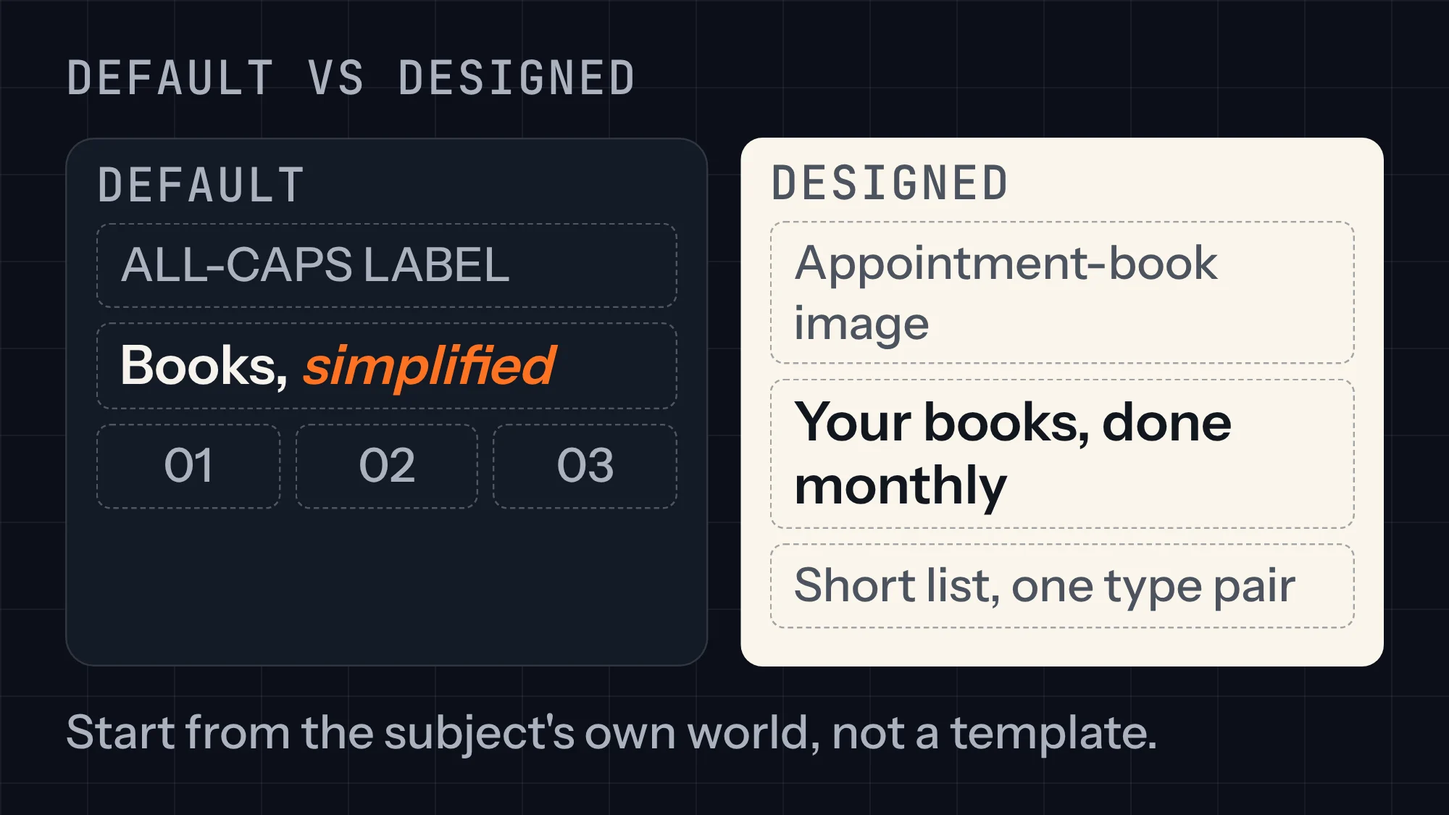
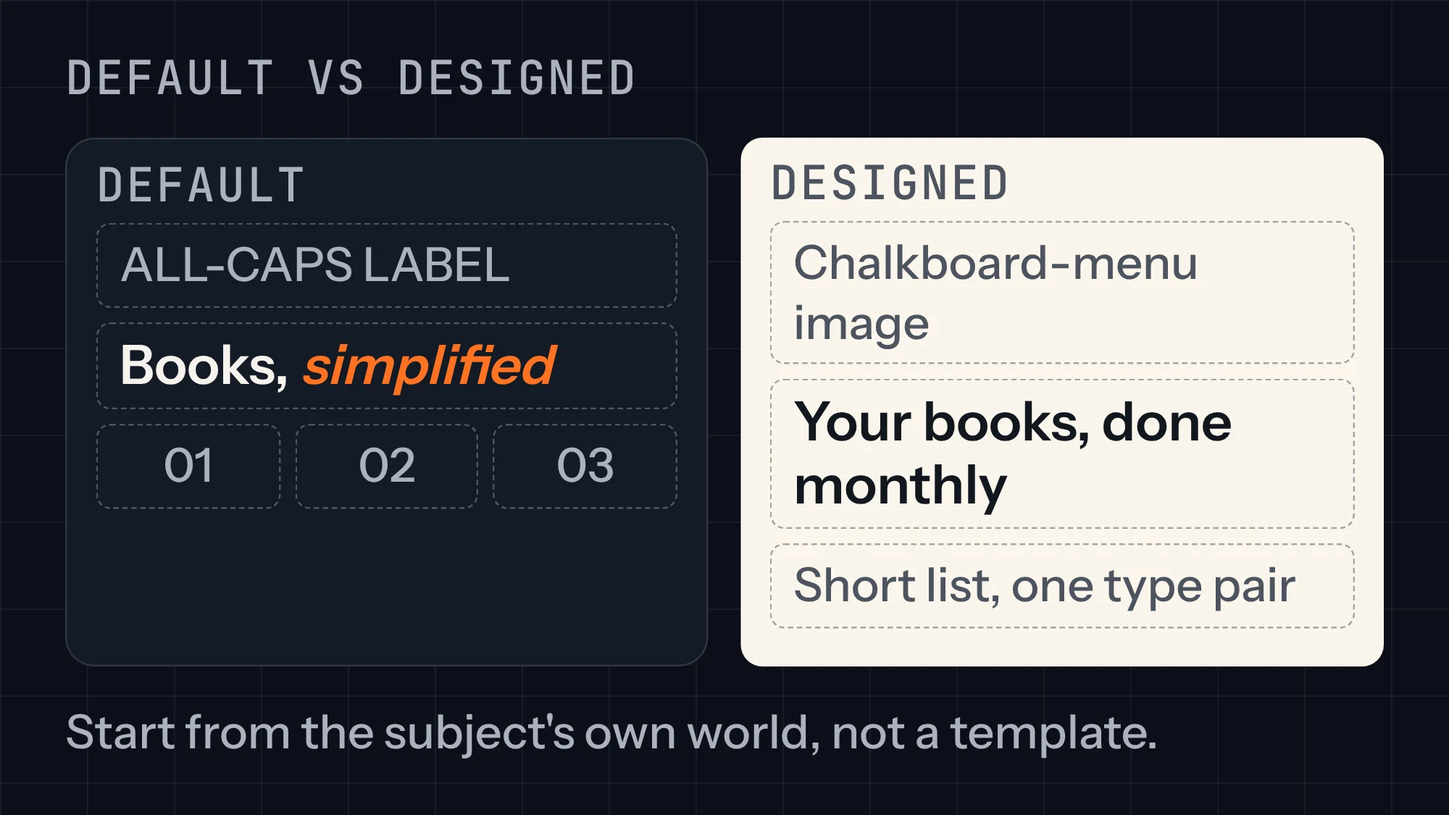
Use Rolling Ledger as the example business in the Agent Skills course
Matches the site-wide switch from Groomer Books to Rolling Ledger, a
bookkeeping service for independent food truck owners. Brand colours
are unchanged.

Claude-Session: https://claude.ai/code/session_01HDSuGCJi3YDQiyRwVjX2jB

Changed region(s): [[0.527, 0.28, 0.837, 0.3422]]

diff --git a/website/content/learn/figures/agent-skills/lesson-02-fig-1.html b/website/content/learn/figures/agent-skills/lesson-02-fig-1.html
@@ -25,7 +25,7 @@
     </div>
     <div class="paper card col" style="border:0">
       <span class="sys" style="color:oklch(44% 0.022 262)">Designed</span>
-      <div class="wire"><span class="small">Appointment-book image</span></div>
+      <div class="wire"><span class="small">Chalkboard-menu image</span></div>
       <div class="wire"><span class="label">Your books, done monthly</span></div>
       <div class="wire"><span class="small">Short list, one type pair</span></div>
     </div>

diff --git a/website/content/learn/courses/agent-skills/exercises/exercise-02-starter-skills-worth-installing.md b/website/content/learn/courses/agent-skills/exercises/exercise-02-starter-skills-worth-installing.md
@@ -11,7 +11,7 @@ template: v2
 You'll take one small idea for your site through all three starter skills: `/grill-me` turns it into a clear plan, `frontend-design` turns the plan into one screen with a point of view, and `skill-creator` turns what worked into a skill you'll reuse. At the end you'll have a plan, a screen in its own branch, and your first home-made skill.
 :::
 
-**Time:** 50 minutes · **You'll need:** Claude Code installed and signed in, your site's folder (or the Groomer Books site), one small idea for the site · **Builds on:** Lesson 2
+**Time:** 50 minutes · **You'll need:** Claude Code installed and signed in, your site's folder (or the Rolling Ledger site), one small idea for the site · **Builds on:** Lesson 2
 
 :::video
 id: sk-ex2-setup
@@ -20,7 +20,7 @@ status: paused
 src: /learn/video/agent-skills/sk-ex2-setup.mp4
 captions: /learn/video/agent-skills/sk-ex2-setup.vtt
 poster: /learn/video/agent-skills/sk-ex2-setup.jpg
-transcript: In this exercise one idea goes through three skills. Install Matt Pocock's skills, frontend design and skill creator. Run grill me on a single sentence, like a page where groomers can book a call, and answer until the agent has no questions left. Then build one screen with frontend design on its own branch. Last, ask skill creator to turn the session into a skill. You'll finish with a plan, a screen and a skill.
+transcript: In this exercise one idea goes through three skills. Install Matt Pocock's skills, frontend design and skill creator. Run grill me on a single sentence, like a page where truck owners can book a call, and answer until the agent has no questions left. Then build one screen with frontend design on its own branch. Last, ask skill creator to turn the session into a skill. You'll finish with a plan, a screen and a skill.
 :::
 
 ## Warm-up
@@ -37,7 +37,7 @@ Why: "Yes" accepts the recommended answer. When you disagree, say what you want 
 
 1. **Install the three skills.** In a terminal, `claude plugin install mattpocock-skills@claude-plugins-official`. Then in a Claude Code session, `/plugin install frontend-design@claude-plugins-official` and `/plugin install skill-creator@claude-plugins-official`. Run `/setup-matt-pocock-skills` once in your project.
 
-2. **Write one sentence.** Pick one small change, for example: "A page where a groomer can book a free 15-minute call."
+2. **Write one sentence.** Pick one small change, for example: "A page where a food truck owner can book a free 15-minute call."
 
 3. **Get grilled.** Send `/grill-me` followed by your sentence. Answer every round. Reply "yes" when you agree with a recommended answer. Stop when the agent says nothing is left open.
 
@@ -50,7 +50,7 @@ Why: "Yes" accepts the recommended answer. When you disagree, say what you want 
 ```text
 Create a branch called booking-page. Using the frontend-design skill and our
 brand kit, build the page in notes/booking-page-plan.md. Ground the design in
-a groomer's world, not a generic software page. Show me the plan first.
+a food truck owner's world, not a generic software page. Show me the plan first.
 ```
 
 Approve the plan, let it build, and open the page in your browser.
@@ -72,7 +72,7 @@ Approve the plan, let it build, and open the page in your browser.
 :::example
 title: See an example result
 
-For Groomer Books, `/grill-me` took three rounds and asked 11 questions, 6 the founder hadn't considered, such as what happens after a groomer books (an email with a calendar invite) and whether evenings are offered (yes, groomers work days). The first build had an all-caps "BOOK NOW" label and fade-ins on every section; the agent removed both. The finished page opens with a simple appointment-book layout in the brand's ink and coral. The `new-page` skill's first step is "Run /grill-me until the goal and done-when are settled."
+For Rolling Ledger, `/grill-me` took three rounds and asked 11 questions, 6 the founder hadn't considered, such as what happens after an owner books (an email with a calendar invite) and whether evening calls are offered (yes, trucks serve lunch). The first build had an all-caps "BOOK NOW" label and fade-ins on every section; the agent removed both. The finished page opens with a simple chalkboard-menu layout in the brand's ink and coral. The `new-page` skill's first step is "Run /grill-me until the goal and done-when are settled."
 
 :::video
 id: sk-ex2-reveal
@@ -81,7 +81,7 @@ status: paused
 src: /learn/video/agent-skills/sk-ex2-reveal.mp4
 captions: /learn/video/agent-skills/sk-ex2-reveal.vtt
 poster: /learn/video/agent-skills/sk-ex2-reveal.jpg
-transcript: Here's a finished result for Groomer Books. Grill me asked 11 questions over three rounds, and six of them were things the founder hadn't thought about, like evening slots. The first build had two generic tells, an all-caps label and fade-ins everywhere, and both came out. The page now looks like an appointment book, not a software template. And the new page skill starts every future page the same way: with a grilling session.
+transcript: Here's a finished result for Rolling Ledger. Grill me asked 11 questions over three rounds, and six of them were things the founder hadn't thought about, like evening slots. The first build had two generic tells, an all-caps label and fade-ins everywhere, and both came out. The page now looks like a chalkboard menu, not a software template. And the new page skill starts every future page the same way: with a grilling session.
 :::
 :::
 

diff --git a/website/content/learn/courses/agent-skills/lessons/lesson-02-starter-skills-worth-installing.md b/website/content/learn/courses/agent-skills/lessons/lesson-02-starter-skills-worth-installing.md
@@ -14,7 +14,7 @@ status: paused
 src: /learn/video/agent-skills/sk-l2-overview.mp4
 captions: /learn/video/agent-skills/sk-l2-overview.vtt
 poster: /learn/video/agent-skills/sk-l2-overview.jpg
-transcript: Most bad agent work starts before the agent writes a single line. You asked for something vague, it guessed, and you only found out when you saw the result. Three free skills fix the most common failures. Grill me makes the agent interview you until the idea is clear. Frontend design stops the agent from building the same generic page everyone else gets. And skill creator lets the agent write and test new skills for you. In this lesson you'll install all three and use each one on the Groomer Books site.
+transcript: Most bad agent work starts before the agent writes a single line. You asked for something vague, it guessed, and you only found out when you saw the result. Three free skills fix the most common failures. Grill me makes the agent interview you until the idea is clear. Frontend design stops the agent from building the same generic page everyone else gets. And skill creator lets the agent write and test new skills for you. In this lesson you'll install all three and use each one on the Rolling Ledger site.
 :::
 
 :::key-concept
@@ -71,7 +71,7 @@ status: paused
 src: /learn/video/agent-skills/sk-l2-grill-me.mp4
 captions: /learn/video/agent-skills/sk-l2-grill-me.vtt
 poster: /learn/video/agent-skills/sk-l2-grill-me.jpg
-transcript: Here's grill me on a real idea: an online booking page for Groomer Books. The founder types grill me and one sentence. The agent comes back with four numbered questions, each with a recommended answer. Who books, the groomer or their client? Recommended: the groomer. Does it take payment? Recommended: no, not yet. The founder says yes to three and changes one. The next round goes deeper. After three rounds, the idea that started as one sentence is a clear one-page plan.
+transcript: Here's grill me on a real idea: an online booking page for Rolling Ledger. The founder types grill me and one sentence. The agent comes back with four numbered questions, each with a recommended answer. Who books, the truck owner or a customer? Recommended: the truck owner. Does it take payment? Recommended: no, not yet. The founder says yes to three and changes one. The next round goes deeper. After three rounds, the idea that started as one sentence is a clear one-page plan.
 :::
 
 ## 2. `frontend-design`: stop the generic AI look
@@ -83,7 +83,7 @@ Ask any agent for a landing page with no direction and you'll get a familiar res
 - All-caps labels above every section, and numbered markers (01, 02, 03) on things that aren't steps
 - A fade-and-slide-up entrance on every section
 
-What it asks for instead: start from the subject's own world (for Groomer Books, that's grooming tables, appointment books and receipts, not a generic SaaS hero), use one or two typefaces chosen on purpose, keep lines under 80 characters, and use motion once, deliberately.
+What it asks for instead: start from the subject's own world (for Rolling Ledger, that's service windows, chalkboard menus and fuel receipts, not a generic SaaS hero), use one or two typefaces chosen on purpose, keep lines under 80 characters, and use motion once, deliberately.
 
 Install it in Claude Code:
 
@@ -97,7 +97,7 @@ It's also in the anthropics/skills repository, so `npx skills add anthropics/ski
 id: fig-1
 type: comparison
 title: Generic page vs designed page
-shows: Two simple wireframes side by side. Left, labeled "default": a centred hero with one highlighted word, an all-caps eyebrow label, three numbered feature cards. Right, labeled "with frontend-design": a hero built around an appointment book image and a plain headline, one typeface pair noted, features as a short list. The right one is on the paper card.
+shows: Two simple wireframes side by side. Left, labeled "default": a centred hero with one highlighted word, an all-caps eyebrow label, three numbered feature cards. Right, labeled "with frontend-design": a hero built around a chalkboard-menu image and a plain headline, one typeface pair noted, features as a short list. The right one is on the paper card.
 data: none
 image: /learn/figures/agent-skills/lesson-02-fig-1.webp
 alt: A default AI page has a highlighted headline word, an all-caps label and numbered cards. The frontend-design version opens with the subject's own world, a plain headline and a deliberate type pair.

diff --git a/website/content/learn/courses/agent-skills/lessons/lesson-03-your-four-house-skills.md b/website/content/learn/courses/agent-skills/lessons/lesson-03-your-four-house-skills.md
@@ -58,19 +58,19 @@ Every skill starts with a short header. The `description` is the most important 
 
 ```markdown
 ---
-name: groomer-books-voice
-description: Use when writing anything a customer will read for Groomer Books: site copy, emails, posts, proposals.
+name: rolling-ledger-voice
+description: Use when writing anything a customer will read for Rolling Ledger: site copy, emails, posts, proposals.
 ---
 
-# Groomer Books voice
+# Rolling Ledger voice
 
-- Plain words a busy groomer understands on a phone. Say "your books", not "reconciliation".
+- Plain words a busy truck owner understands on a phone between services. Say "your books", not "reconciliation".
 - Sentences under 20 words. One idea per paragraph.
 - Warm and direct. No hype words: "revolutionary", "seamless", "unlock".
 - Prices in dollars with the period: "$149 a month".
 
 ## Example
-Before: "Unlock seamless financial clarity for your grooming business."
+Before: "Unlock seamless financial clarity for your food truck business."
 After: "We keep your books every month, so tax time takes an hour, not a weekend."
 ```
 
@@ -80,7 +80,7 @@ If you made a brand skill in Brand in a Day Lesson 3, you already have a start: 
 
 ### Design system
 
-Open your Brand in a Day kit. The design system skill lists the exact values: colour codes, font names and sizes, the spacing step, the button style, and a short "never" list ("no gradients", "no stock photos of laptops"). Tell the skill to use these values over anything the `frontend-design` skill suggests. That matters for Groomer Books: its kit is Ink #1F2A37, Coral #E8664A and Cream #FFF8F0, close to the cream-and-terracotta look `frontend-design` calls a cliché. It's a deliberate brand choice, so the design system skill says so ("cream and coral are our brand colours; keep them"), and the agent stops second-guessing it. Add one screenshot of a page you like as an example, if you have one.
+Open your Brand in a Day kit. The design system skill lists the exact values: colour codes, font names and sizes, the spacing step, the button style, and a short "never" list ("no gradients", "no stock photos of laptops"). Tell the skill to use these values over anything the `frontend-design` skill suggests. That matters for Rolling Ledger: its kit is Ink #1F2A37, Coral #E8664A and Cream #FFF8F0, close to the cream-and-terracotta look `frontend-design` calls a cliché. It's a deliberate brand choice, so the design system skill says so ("cream and coral are our brand colours; keep them"), and the agent stops second-guessing it. Add one screenshot of a page you like as an example, if you have one.
 
 ### Specs
 
@@ -93,7 +93,7 @@ status: paused
 src: /learn/video/agent-skills/sk-l3-write-house-skills.mp4
 captions: /learn/video/agent-skills/sk-l3-write-house-skills.vtt
 poster: /learn/video/agent-skills/sk-l3-write-house-skills.jpg
-transcript: Here the Groomer Books founder pastes five past emails into Claude Code and asks skill creator for a voice skill. It drafts one, runs three test rewrites, and shows them side by side. The founder flags one phrase that sounds too formal, and the skill is updated. Next, the brand kit's colours and fonts go into a design system skill. Two skills done in about twenty minutes.
+transcript: Here the Rolling Ledger founder pastes five past emails into Claude Code and asks skill creator for a voice skill. It drafts one, runs three test rewrites, and shows them side by side. The founder flags one phrase that sounds too formal, and the skill is updated. Next, the brand kit's colours and fonts go into a design system skill. Two skills done in about twenty minutes.
 :::
 
 ## Mistakes become skills
@@ -131,10 +131,10 @@ Put your house skills in one private GitHub repo, for example `house-skills`, wi
 ```text
 house-skills/
   skills/
-    groomer-books-voice/SKILL.md
-    groomer-books-design-system/SKILL.md
-    groomer-books-specs/SKILL.md
-    groomer-books-mistakes/SKILL.md
+    rolling-ledger-voice/SKILL.md
+    rolling-ledger-design-system/SKILL.md
+    rolling-ledger-specs/SKILL.md
+    rolling-ledger-mistakes/SKILL.md
 ```
 
 - **Claude Code:** personal skills live in `~/.claude/skills/`, and project skills in `.claude/skills/` inside the project. Copy the folders there, or ask Claude Code to do it.

diff --git a/website/content/learn/courses/agent-skills/exercises/exercise-04-give-your-agent-eyes-and-brakes.md b/website/content/learn/courses/agent-skills/exercises/exercise-04-give-your-agent-eyes-and-brakes.md
@@ -11,7 +11,7 @@ template: v2
 You'll install a language server, the security guidance plugin and Context7 on your site, then test each one on purpose: break something and watch the agent see it, ask for something risky and watch it get flagged, and ask about a tool that changed and watch the agent check its docs. At the end you'll know each plugin works, and what it costs.
 :::
 
-**Time:** 45 minutes · **You'll need:** Claude Code 2.1.144 or later, Node 22.13 or later, Python 3.8 or later, your site's folder (or the Groomer Books site) · **Builds on:** Lesson 4
+**Time:** 45 minutes · **You'll need:** Claude Code 2.1.144 or later, Node 22.13 or later, Python 3.8 or later, your site's folder (or the Rolling Ledger site) · **Builds on:** Lesson 4
 
 :::video
 id: sk-ex4-setup
@@ -39,7 +39,7 @@ Why: Context7 fetches current, version-specific docs before the agent writes cod
 
 2. **Language server.** Run `npm install -g typescript-language-server typescript`, then in Claude Code `/plugin install typescript-lsp@claude-plugins-official`. Restart the session.
 
-3. **Security guidance.** Run `/plugin install security-guidance@claude-plugins-official`. Create `.claude/claude-security-guidance.md` with three rules for your business, like the Groomer Books example in Lesson 4.
+3. **Security guidance.** Run `/plugin install security-guidance@claude-plugins-official`. Create `.claude/claude-security-guidance.md` with three rules for your business, like the Rolling Ledger example in Lesson 4.
 
 4. **Context7.** Run `npx ctx7 setup --claude` and follow the sign-in. If you'd rather not create an account, use `/plugin install context7@claude-plugins-official`.
 
@@ -65,7 +65,7 @@ Why: Context7 fetches current, version-specific docs before the agent writes cod
 :::example
 title: See an example result
 
-For Groomer Books, the language server reported the broken call by file and line the moment the agent finished the edit, before it said it was done. Security guidance flagged the contact form as a cross-site scripting risk, and the agent switched to inserting the message as plain text. Context7 fetched the form service's current docs and the agent used the option's new name. Usage went up by a little under a tenth of the founder's daily allowance across the three tests, mostly from the security reviews.
+For Rolling Ledger, the language server reported the broken call by file and line the moment the agent finished the edit, before it said it was done. Security guidance flagged the contact form as a cross-site scripting risk, and the agent switched to inserting the message as plain text. Context7 fetched the form service's current docs and the agent used the option's new name. Usage went up by a little under a tenth of the founder's daily allowance across the three tests, mostly from the security reviews.
 
 :::video
 id: sk-ex4-reveal
@@ -74,7 +74,7 @@ status: paused
 src: /learn/video/agent-skills/sk-ex4-reveal.mp4
 captions: /learn/video/agent-skills/sk-ex4-reveal.vtt
 poster: /learn/video/agent-skills/sk-ex4-reveal.jpg
-transcript: Here's a finished test run for Groomer Books. The language server caught the broken call before the agent said it was done. Security guidance flagged the unsafe contact form, and the agent fixed it on its own. Context7 found the form service's renamed option. And the founder now knows the cost: the security reviews used most of the extra usage, which is worth it on anything that goes live.
+transcript: Here's a finished test run for Rolling Ledger. The language server caught the broken call before the agent said it was done. Security guidance flagged the unsafe contact form, and the agent fixed it on its own. Context7 found the form service's renamed option. And the founder now knows the cost: the security reviews used most of the extra usage, which is worth it on anything that goes live.
 :::
 :::
 

diff --git a/website/content/learn/courses/agent-skills/exercises/exercise-01-skills-that-travel-between-agents.md b/website/content/learn/courses/agent-skills/exercises/exercise-01-skills-that-travel-between-agents.md
@@ -11,7 +11,7 @@ template: v2
 You'll check one shared skill before installing it, install it in two agents, and give both the same job. At the end you'll have a trust check you can reuse for every skill, and proof that one skill makes two different agents work the same way.
 :::
 
-**Time:** 40 minutes · **You'll need:** Claude Code, plus Codex or Cursor, installed and signed in; your site's folder (or the Groomer Books site from Build the Product and Site) · **Builds on:** Lesson 1
+**Time:** 40 minutes · **You'll need:** Claude Code, plus Codex or Cursor, installed and signed in; your site's folder (or the Rolling Ledger site from Build the Product and Site) · **Builds on:** Lesson 1
 
 :::video
 id: sk-ex1-setup
@@ -20,7 +20,7 @@ status: paused
 src: /learn/video/agent-skills/sk-ex1-setup.mp4
 captions: /learn/video/agent-skills/sk-ex1-setup.vtt
 poster: /learn/video/agent-skills/sk-ex1-setup.jpg
-transcript: In this exercise you'll put one skill into two agents. First list what each agent already has. Then pick one code review skill from the wshobson agents collection, read it, and run the five trust checks. Install it in Claude Code and in your second agent, and ask both to review the same page of the Groomer Books site. You'll finish with a short note comparing the two reviews.
+transcript: In this exercise you'll put one skill into two agents. First list what each agent already has. Then pick one code review skill from the wshobson agents collection, read it, and run the five trust checks. Install it in Claude Code and in your second agent, and ask both to review the same page of the Rolling Ledger site. You'll finish with a short note comparing the two reviews.
 :::
 
 ## Warm-up
@@ -78,7 +78,7 @@ problems, most serious first, one line each. Don't change any files.
 :::example
 title: See an example result
 
-For Groomer Books, the founder checked a code review skill from `developer-essentials`: one page of steps, no scripts, read-only. Both agents found the same top problem, a phone menu that couldn't be opened from the keyboard, and listed their findings in the same severity order the skill asks for. Codex also caught a missing page title; Claude Code caught an image with no alt text. The founder noted that the skill made both reviews follow one format, which made them easy to compare.
+For Rolling Ledger, the founder checked a code review skill from `developer-essentials`: one page of steps, no scripts, read-only. Both agents found the same top problem, a phone menu that couldn't be opened from the keyboard, and listed their findings in the same severity order the skill asks for. Codex also caught a missing page title; Claude Code caught an image with no alt text. The founder noted that the skill made both reviews follow one format, which made them easy to compare.
 
 :::video
 id: sk-ex1-reveal
@@ -87,7 +87,7 @@ status: paused
 src: /learn/video/agent-skills/sk-ex1-reveal.mp4
 captions: /learn/video/agent-skills/sk-ex1-reveal.vtt
 poster: /learn/video/agent-skills/sk-ex1-reveal.jpg
-transcript: Here's a finished result for Groomer Books. The trust check took four minutes: one page of steps, no scripts, read-only. Both agents put the same problem first, a phone menu that doesn't work from the keyboard. Each caught one thing the other missed. Because both followed the same skill, the reviews came out in the same format, which is exactly what a shared skill is for.
+transcript: Here's a finished result for Rolling Ledger. The trust check took four minutes: one page of steps, no scripts, read-only. Both agents put the same problem first, a phone menu that doesn't work from the keyboard. Each caught one thing the other missed. Because both followed the same skill, the reviews came out in the same format, which is exactly what a shared skill is for.
 :::
 :::
 

diff --git a/website/content/learn/courses/agent-skills/lessons/lesson-04-give-your-agent-eyes-and-brakes.md b/website/content/learn/courses/agent-skills/lessons/lesson-04-give-your-agent-eyes-and-brakes.md
@@ -14,7 +14,7 @@ status: paused
 src: /learn/video/agent-skills/sk-l4-overview.mp4
 captions: /learn/video/agent-skills/sk-l4-overview.vtt
 poster: /learn/video/agent-skills/sk-l4-overview.jpg
-transcript: Skills tell your agent how to work. Plugins can also change what it can see and what it's allowed to get away with. Three free ones matter most for a solo founder. A language server plugin lets the agent see errors the moment it makes them, the way a code editor does. The security guidance plugin reviews every change for risky code before you ever see it. And Context7 makes the agent read the current documentation for a tool before it writes code against it, so it stops using last year's instructions. In this lesson you'll install all three on the Groomer Books site.
+transcript: Skills tell your agent how to work. Plugins can also change what it can see and what it's allowed to get away with. Three free ones matter most for a solo founder. A language server plugin lets the agent see errors the moment it makes them, the way a code editor does. The security guidance plugin reviews every change for risky code before you ever see it. And Context7 makes the agent read the current documentation for a tool before it writes code against it, so it stops using last year's instructions. In this lesson you'll install all three on the Rolling Ledger site.
 :::
 
 :::key-concept
@@ -81,10 +81,10 @@ It needs Claude Code 2.1.144 or later and Python 3.8 or later on your computer.
 
 ### Add your own rules
 
-Write rules specific to your business in `.claude/claude-security-guidance.md` in your project, and commit it. For Groomer Books:
+Write rules specific to your business in `.claude/claude-security-guidance.md` in your project, and commit it. For Rolling Ledger:
 
 ```markdown
-# Groomer Books security rules
+# Rolling Ledger security rules
 - The contact form must never store card numbers or bank details.
 - Client names and emails never appear in page source, logs or error messages.
 - No new third-party scripts on any page without asking first.
@@ -117,7 +117,7 @@ status: paused
 src: /learn/video/agent-skills/sk-l4-security-guidance.mp4
 captions: /learn/video/agent-skills/sk-l4-security-guidance.vtt
 poster: /learn/video/agent-skills/sk-l4-security-guidance.jpg
-transcript: Here we ask the agent to add a contact form to the Groomer Books site, and it writes the visitor's message straight into the page. The security guidance plugin flags it as a cross-site scripting risk before the agent replies, and the agent fixes it on its own. Then we add our own rule, never store card numbers, and commit it. Every review from now on checks that rule too.
+transcript: Here we ask the agent to add a contact form to the Rolling Ledger site, and it writes the visitor's message straight into the page. The security guidance plugin flags it as a cross-site scripting risk before the agent replies, and the agent fixes it on its own. Then we add our own rule, never store card numbers, and commit it. Every review from now on checks that rule too.
 :::
 
 ## 3. The manual: Context7
@@ -145,7 +145,7 @@ It works without a key, but a free key from the Context7 dashboard gives you hig
 If you used the setup command, the skill fetches docs on its own when a job involves a library. Otherwise, add "use context7" to your request:
 
 ```text
-Add a booking form to the Groomer Books site that sends to our form service.
+Add a booking form to the Rolling Ledger site that sends to our form service.
 Check the form service's current docs before writing any code. use context7
 ```
 

diff --git a/website/content/learn/courses/agent-skills/exercises/exercise-03-your-four-house-skills.md b/website/content/learn/courses/agent-skills/exercises/exercise-03-your-four-house-skills.md
@@ -66,7 +66,7 @@ Why: Every mistake that could happen again becomes one dated rule, in the skill 
 :::example
 title: See an example result
 
-For Groomer Books, the voice skill came out at 18 lines with two before-and-after examples. Its test turned "Unlock seamless financial clarity" into "We keep your books every month, so tax time takes an hour." The design system skill lists Ink #1F2A37, Coral #E8664A and Cream #FFF8F0 and notes that cream and coral are deliberate brand colours. The mistakes skill starts with "2026-11-02: Never change prices without asking." Both Claude Code and Codex loaded the voice skill when asked for a reminder email.
+For Rolling Ledger, the voice skill came out at 18 lines with two before-and-after examples. Its test turned "Unlock seamless financial clarity" into "We keep your books every month, so tax time takes an hour." The design system skill lists Ink #1F2A37, Coral #E8664A and Cream #FFF8F0 and notes that cream and coral are deliberate brand colours. The mistakes skill starts with "2026-11-02: Never change prices without asking." Both Claude Code and Codex loaded the voice skill when asked for a reminder email.
 
 :::video
 id: sk-ex3-reveal
@@ -75,7 +75,7 @@ status: paused
 src: /learn/video/agent-skills/sk-ex3-reveal.mp4
 captions: /learn/video/agent-skills/sk-ex3-reveal.vtt
 poster: /learn/video/agent-skills/sk-ex3-reveal.jpg
-transcript: Here's a finished house skills repo for Groomer Books. Four folders: voice, design system, specs and mistakes. The voice test turned a hype line into a plain one a groomer would trust. The design skill keeps the brand's cream and coral on purpose. The mistakes skill has its first rule: never change prices without asking. And when the founder asked two different agents for a reminder email, both used the same voice.
+transcript: Here's a finished house skills repo for Rolling Ledger. Four folders: voice, design system, specs and mistakes. The voice test turned a hype line into a plain one a truck owner would trust. The design skill keeps the brand's cream and coral on purpose. The mistakes skill has its first rule: never change prices without asking. And when the founder asked two different agents for a reminder email, both used the same voice.
 :::
 :::
 

diff --git a/website/content/learn/courses/agent-skills/lessons/lesson-01-skills-that-travel-between-agents.md b/website/content/learn/courses/agent-skills/lessons/lesson-01-skills-that-travel-between-agents.md
@@ -57,7 +57,7 @@ alt: One SKILL.md file, with a name, a when-to-use line and steps, connects to C
 
 The most widely shared collection is **wshobson/agents** on GitHub. As of November 2026 it lists 94 plugins holding 202 helper agents, 185 skills and 105 commands, under the MIT license. The plugins cover code review, testing, JavaScript and TypeScript, Python, security scanning, infrastructure and more. The same source is adapted for Claude Code, Codex, Cursor, OpenCode, GitHub Copilot, Antigravity and Pi.
 
-You don't want all 94. Pick the one or two that match how you build. For a founder whose site is HTML, CSS and JavaScript, like the Groomer Books site, start with:
+You don't want all 94. Pick the one or two that match how you build. For a founder whose site is HTML, CSS and JavaScript, like the Rolling Ledger site, start with:
 
 | Plugin | Use it for |
 |---|---|
